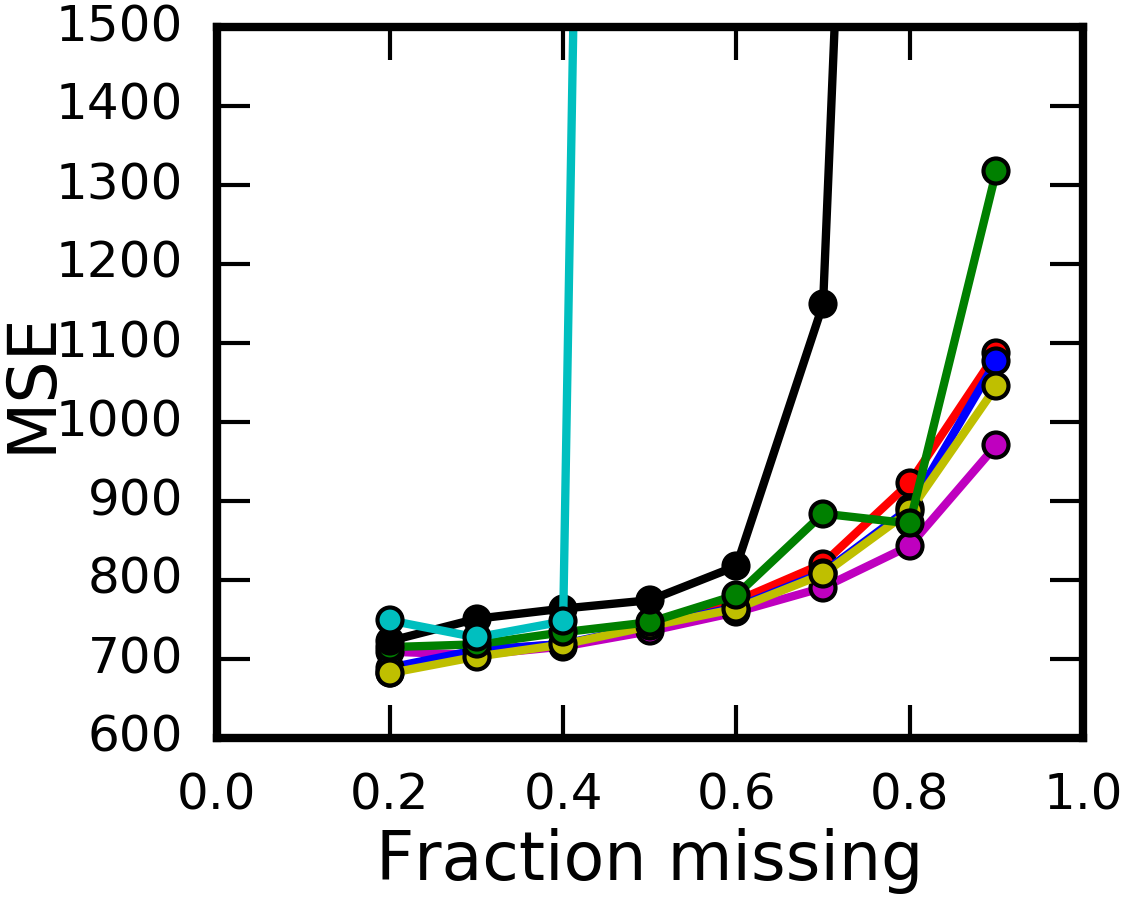
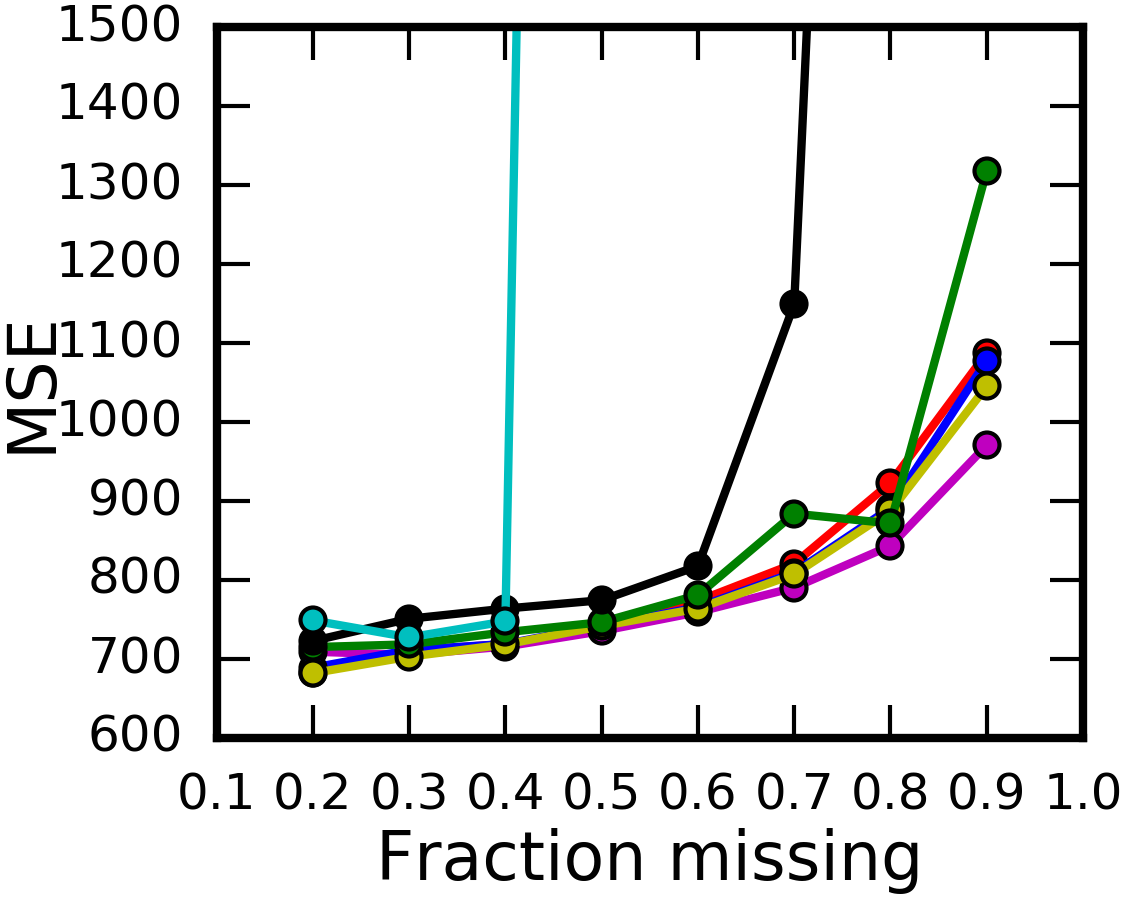
Redid some plots. Now going to rerun NMTF ICM GDSC model selection experiment.

diff --git a/experiments/experiments_gdsc/model_selection/plots/plot_nmtf_icm_model_selection.py b/experiments/experiments_gdsc/model_selection/plots/plot_nmtf_icm_model_selection.py
@@ -13,14 +13,14 @@ values_K = [1,2,3,4,5,6,7,8,9,10,12,14,16,18,20,25,30,40]
 
 folder_plots = "./"
 folder_results = "./../results/"
-plot_file = folder_plots+"nmtf_icm_model_selection_2.png"
+plot_file = folder_plots+"nmtf_icm_model_selection_NOMIN.png"
 
 colour = 'g' #['r','b','g','c'] -> VB, Gibbs, ICM, NP
 
 
 ''' Load in the performances. '''
-gibbs_performances = eval(open(folder_results+'nmtf_icm_2.txt','r').read())
-gibbs_ard_performances = eval(open(folder_results+'nmtf_icm_ard_2.txt','r').read())
+gibbs_performances = eval(open(folder_results+'nmtf_icm_NOMIN.txt','r').read())
+gibbs_ard_performances = eval(open(folder_results+'nmtf_icm_ard_NOMIN.txt','r').read())
 
 
 for metric in metrics:

diff --git a/experiments/experiments_gdsc/model_selection/nmtf_icm_ard.py b/experiments/experiments_gdsc/model_selection/nmtf_icm_ard.py
@@ -16,17 +16,17 @@ import matplotlib.pyplot as plt
 
 ''' Experiment settings. '''
 no_folds = 10
-values_KL = [1,2,3,4,5,6,7,8,9,10,12,14,16,18,20,25,30,40]
+values_KL = [1,2,3,4,6,8,10,15,20,30]#[1,2,3,4,5,6,7,8,9,10,12,14,16,18,20,25,30,40]
 
 output_folder = project_location+"BNMTF_ARD/experiments/experiments_gdsc/model_selection/results/"
-output_file = output_folder+'nmtf_icm_ard.txt'
+output_file = output_folder+'nmtf_icm_ard_NOMIN.txt'
 
 metrics = ['MSE', 'R^2', 'Rp']
 
 
 ''' Model settings. '''
-iterations = 1000
-burn_in = 900
+iterations = 500
+burn_in = 400
 thinning = 2
 
 init_FG, init_S = 'kmeans', 'random'

diff --git a/experiments/experiments_gdsc/model_selection/nmtf_icm.py b/experiments/experiments_gdsc/model_selection/nmtf_icm.py
@@ -16,17 +16,17 @@ import matplotlib.pyplot as plt
 
 ''' Experiment settings. '''
 no_folds = 10
-values_KL = [1,2,3,4,5,6,7,8,9,10,12,14,16,18,20,25,30,40]
+values_KL = [1,2,3,4,6,8,10,15,20,30]#[1,2,3,4,5,6,7,8,9,10,12,14,16,18,20,25,30,40]
 
 output_folder = project_location+"BNMTF_ARD/experiments/experiments_gdsc/model_selection/results/"
-output_file = output_folder+'nmtf_icm.txt'
+output_file = output_folder+'nmtf_icm_NOMIN.txt'
 
 metrics = ['MSE', 'R^2', 'Rp']
 
 
 ''' Model settings. '''
-iterations = 1000
-burn_in = 900
+iterations = 500
+burn_in = 400
 thinning = 2
 
 init_FG, init_S = 'kmeans', 'random'

diff --git a/code/models/nmtf_icm.py b/code/models/nmtf_icm.py
@@ -62,7 +62,7 @@ ALL_METRICS = ['MSE','R^2','Rp']
 ALL_QUALITY = ['loglikelihood','BIC','AIC','MSE','ELBO']
 OPTIONS_INIT_FG = ['kmeans', 'random', 'exp']
 OPTIONS_INIT_S = ['random', 'exp']
-MINIMUM_TN = 0.1 # ICM has the tendency to set most columns to 0's; we reset them to this value.
+MINIMUM_TN = 0.0 # 0.1 # ICM has the tendency to set most columns to 0's; we reset them to this value.
 ELEMENT_WISE_SPARSITY = True # If True, use element wise sparsity (ARD) for Skl
 
 class nmtf_icm:

diff --git a/experiments/experiments_gdsc/sparsity/plots/plot_nmf_sparsity.py b/experiments/experiments_gdsc/sparsity/plots/plot_nmf_sparsity.py
@@ -49,7 +49,7 @@ for metric in metrics:
         x, y = fractions_unknown, numpy.mean(all_perf[metric],axis=1)
         plt.plot(x,y,linestyle='-', marker='o', label=method, c=colour, markersize=3)
     
-    plt.xlim(0.0,1.)
+    plt.xlim(0.1, 1.0)
     if metric == 'MSE':
         plt.ylim(MSE_min,MSE_max)
         plt.yticks(range(MSE_min,MSE_max+1,100))

diff --git a/experiments/experiments_gdsc/sparsity/plots/plot_nmf_with_ard_sparsity.py b/experiments/experiments_gdsc/sparsity/plots/plot_nmf_with_ard_sparsity.py
@@ -61,7 +61,7 @@ for metric in metrics:
         x, y = fractions_unknown, numpy.mean(all_perf[metric],axis=1)
         plt.plot(x,y,linestyle='-', marker='o', label=method, c=colour, markersize=3)
     
-    plt.xlim(0.0,1.)
+    plt.xlim(0.1, 1.0)
     if metric == 'MSE':
         plt.ylim(MSE_min,MSE_max)
         plt.yticks(range(MSE_min,MSE_max+1,100))

diff --git a/experiments/experiments_gdsc/sparsity/plots/plot_nmtf_sparsity.py b/experiments/experiments_gdsc/sparsity/plots/plot_nmtf_sparsity.py
@@ -49,7 +49,7 @@ for metric in metrics:
         x, y = fractions_unknown, numpy.mean(all_perf[metric],axis=1)
         plt.plot(x,y,linestyle='-', marker='o', label=method, c=colour, markersize=3)
     
-    plt.xlim(0.0,1.)
+    plt.xlim(0.1, 1.0)
     if metric == 'MSE':
         plt.ylim(MSE_min,MSE_max)
         plt.yticks(range(MSE_min,MSE_max+1,100))

diff --git a/experiments/experiments_gdsc/sparsity/plots/plot_nmtf_with_ard_sparsity.py b/experiments/experiments_gdsc/sparsity/plots/plot_nmtf_with_ard_sparsity.py
@@ -61,7 +61,7 @@ for metric in metrics:
         x, y = fractions_unknown, numpy.mean(all_perf[metric],axis=1)
         plt.plot(x,y,linestyle='-', marker='o', label=method, c=colour, markersize=3)
     
-    plt.xlim(0.0,1.)
+    plt.xlim(0.1, 1.0)
     if metric == 'MSE':
         plt.ylim(MSE_min,MSE_max)
         plt.yticks(range(MSE_min,MSE_max+1,100))

diff --git a/experiments/experiments_ccle_ec/sparsity/plots/plot_nmf_with_ard_sparsity.py b/experiments/experiments_ccle_ec/sparsity/plots/plot_nmf_with_ard_sparsity.py
@@ -20,7 +20,7 @@ plot_file = folder_plots+"mse_nmf_ard_sparsity.png"
 ''' Load in the performances. '''
 def eval_handle_nan(fin):
     string = open(fin,'r').readline()
-    old, new = "nan", "numpy.nan"
+    old, new = "nan", "100" #"numpy.nan"
     string = string.replace(old, new)
     return eval(string)
     

diff --git a/experiments/experiments_ccle_ec/sparsity/plots/plot_nmf_sparsity.py b/experiments/experiments_ccle_ec/sparsity/plots/plot_nmf_sparsity.py
@@ -20,7 +20,7 @@ plot_file = folder_plots+"mse_nmf_sparsity.png"
 ''' Load in the performances. '''
 def eval_handle_nan(fin):
     string = open(fin,'r').readline()
-    old, new = "nan", "numpy.nan"
+    old, new = "nan", "100" #"numpy.nan"
     string = string.replace(old, new)
     return eval(string)
     

diff --git a/experiments/experiments_toy/sparsity/plots/plot_nmf_with_ard_sparsity.py b/experiments/experiments_toy/sparsity/plots/plot_nmf_with_ard_sparsity.py
@@ -20,7 +20,7 @@ legend_file = folder_plots+"legend_ard.png"
 ''' Load in the performances. '''
 def eval_handle_nan(fin):
     string = open(fin,'r').readline()
-    old, new = "nan", "numpy.nan"
+    old, new = "nan", "10000" #"numpy.nan"
     string = string.replace(old, new)
     return eval(string)
     
